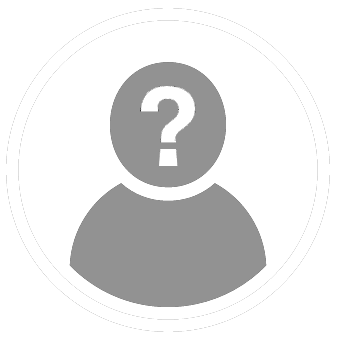
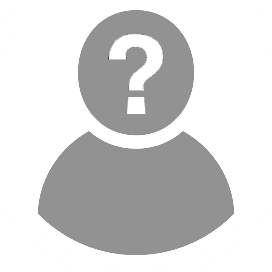
outline around userImage

Changed region(s): [[0.1176, 0.0294, 0.8824, 0.9412]]

diff --git a/web/resources/css/global.css b/web/resources/css/global.css
@@ -159,6 +159,7 @@ html, body {
 
 .userImage {
     border-radius: 100%;
+    border:2px solid white;
 }
 
 .userImage:hover {
